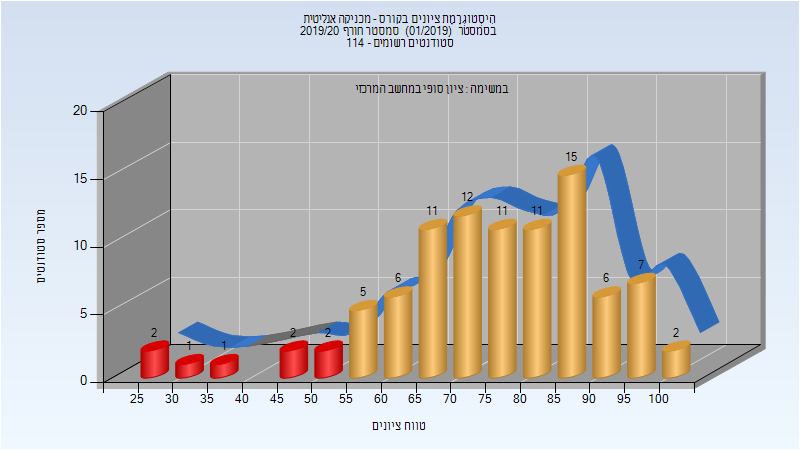
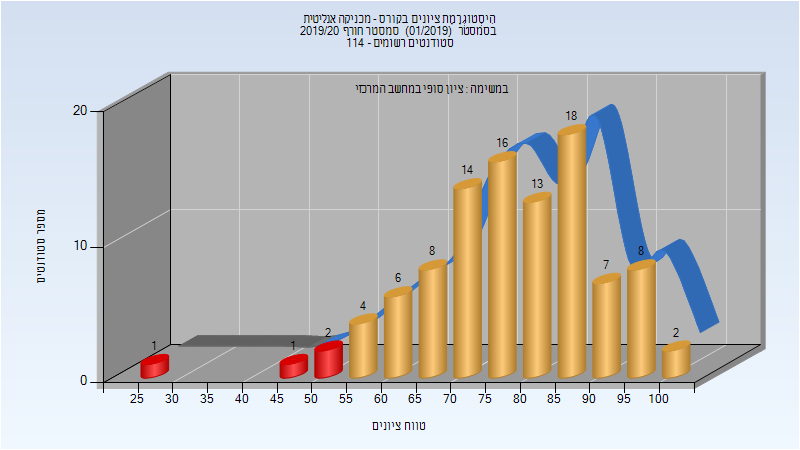
Deploy michael-maltsev/technion-histograms to github.com/michael-maltsev/technion-histograms.git:gh-pages

diff --git a/114101/index.html b/114101/index.html
@@ -600,6 +600,32 @@
 </tr>
 </tbody>
 </table>
+<h3>סופי מועד ב'</h3>
+<p><img src="201901/Final_B.png" alt="201901 Final_B" /></p>
+<table>
+<thead>
+<tr>
+<th>סטודנטים</th>
+<th>עברו/נכשלו</th>
+<th>אחוז עוברים</th>
+<th>ציון מינימלי</th>
+<th>ציון מקסימלי</th>
+<th>ממוצע</th>
+<th>חציון</th>
+</tr>
+</thead>
+<tbody>
+<tr>
+<td>32</td>
+<td>30/2</td>
+<td>94</td>
+<td>49</td>
+<td>98</td>
+<td>71.969</td>
+<td>73</td>
+</tr>
+</tbody>
+</table>
 <h3>סופי</h3>
 <p><img src="201901/Finals.png" alt="201901 Finals" /></p>
 <table>
@@ -616,13 +642,13 @@
 </thead>
 <tbody>
 <tr>
-<td>94</td>
-<td>86/8</td>
-<td>91</td>
+<td>101</td>
+<td>97/4</td>
+<td>96</td>
 <td>29</td>
 <td>100</td>
-<td>75.287</td>
-<td>76.5</td>
+<td>78</td>
+<td>78</td>
 </tr>
 </tbody>
 </table>

diff --git a/104034/index.html b/104034/index.html
@@ -2460,7 +2460,7 @@
 <td>90</td>
 <td>20</td>
 <td>100</td>
-<td>72.864</td>
+<td>72.905</td>
 <td>73</td>
 </tr>
 </tbody>

diff --git a/114101/README.md b/114101/README.md
@@ -186,11 +186,19 @@
 | ---- | ---- | ---- | ---- | ---- | ---- | ---- |
 | 94 | 86/8 | 91 | 29 | 100 | 75.287 | 76.5 |
 
+### סופי מועד ב'
+
+![201901 Final_B](201901/Final_B.png)
+
+| סטודנטים | עברו/נכשלו | אחוז עוברים | ציון מינימלי | ציון מקסימלי | ממוצע | חציון |
+| ---- | ---- | ---- | ---- | ---- | ---- | ---- |
+| 32 | 30/2 | 94 | 49 | 98 | 71.969 | 73 |
+
 ### סופי
 
 ![201901 Finals](201901/Finals.png)
 
 | סטודנטים | עברו/נכשלו | אחוז עוברים | ציון מינימלי | ציון מקסימלי | ממוצע | חציון |
 | ---- | ---- | ---- | ---- | ---- | ---- | ---- |
-| 94 | 86/8 | 91 | 29 | 100 | 75.287 | 76.5 |
+| 101 | 97/4 | 96 | 29 | 100 | 78 | 78 |
 

diff --git a/104034/README.md b/104034/README.md
@@ -774,7 +774,7 @@
 
 | סטודנטים | עברו/נכשלו | אחוז עוברים | ציון מינימלי | ציון מקסימלי | ממוצע | חציון |
 | ---- | ---- | ---- | ---- | ---- | ---- | ---- |
-| 245 | 220/25 | 90 | 20 | 100 | 72.864 | 73 |
+| 245 | 220/25 | 90 | 20 | 100 | 72.905 | 73 |
 
 ## אביב 2020
 
